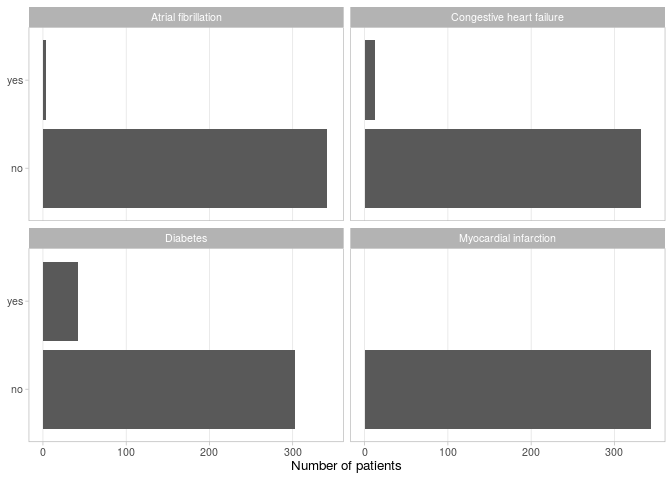
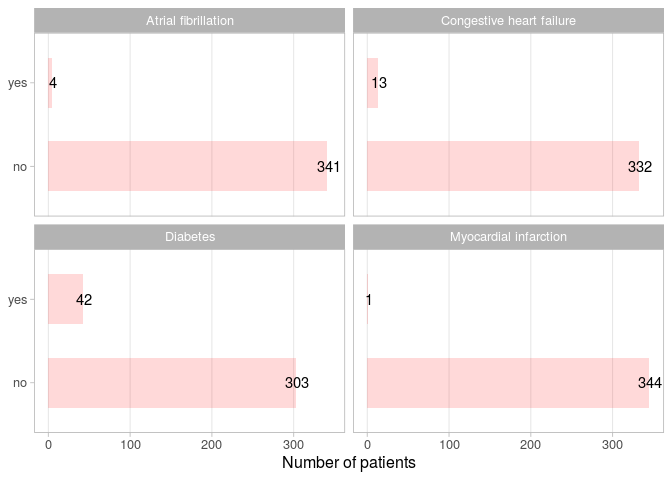
test out how to add summary stats to plot

diff --git a/01_process_crs.md b/01_process_crs.md
@@ -75,7 +75,7 @@ library(here)
 
 ``` r
 ## Set global ggplot theme
-theme_set(theme_light(base_size = 10))
+theme_set(theme_light(base_size = 12))
 
 ## Relative path to the data set
 crs_data_path = here("data", "crs.Rdata")
@@ -310,6 +310,10 @@ crs %>%
 Plot of the distribution of patients with specific comorbidities
 measured at diagnosis.
 
+Process steps: \* Select comorbidities \* Transform data frame from wide
+to long \* Transform and spell out factors for plotting \* Plot counts
+by comorbidity
+
 ``` r
 crs %>%
   select(id, chf, afib, diabetes, mi) %>%
@@ -320,13 +324,16 @@ crs %>%
       comorb == "afib" ~ "Atrial fibrillation",
       comorb == "diabetes" ~ "Diabetes",
       comorb == "mi" ~ "Myocardial infarction"
-      ),
+    ),
     value = case_when(
       value == "0" ~ "no",
       value == "1" ~ "yes")
-    ) %>%
-  ggplot(aes(value)) +
-  geom_bar() +
+  ) %>%
+  group_by(comorb, value) %>%
+  summarise(n = n()) %>%
+  ggplot(aes(value, n)) +
+  geom_col(width = 0.6, alpha = 0.15, fill = "red") +
+  geom_text(aes(y=n, label = n), nudge_y = 1.5) +
   coord_flip() +
   facet_wrap(~ comorb) + 
   ylab("Number of patients") +
@@ -342,19 +349,9 @@ crs %>%
 Patient characteristics
 -----------------------
 
-``` r
-gg1 <- crs %>%
-  ggplot(aes(y = bmi)) +
-  geom_boxplot() +
-  coord_flip() +
-  theme_bw()
-```
-
-``` r
-gg1 
-```
-
-![](01_process_crs_files/figure-markdown_github/unnamed-chunk-7-1.png)
+TODO
 
 Bivariate data display
 ======================
+
+TODO
